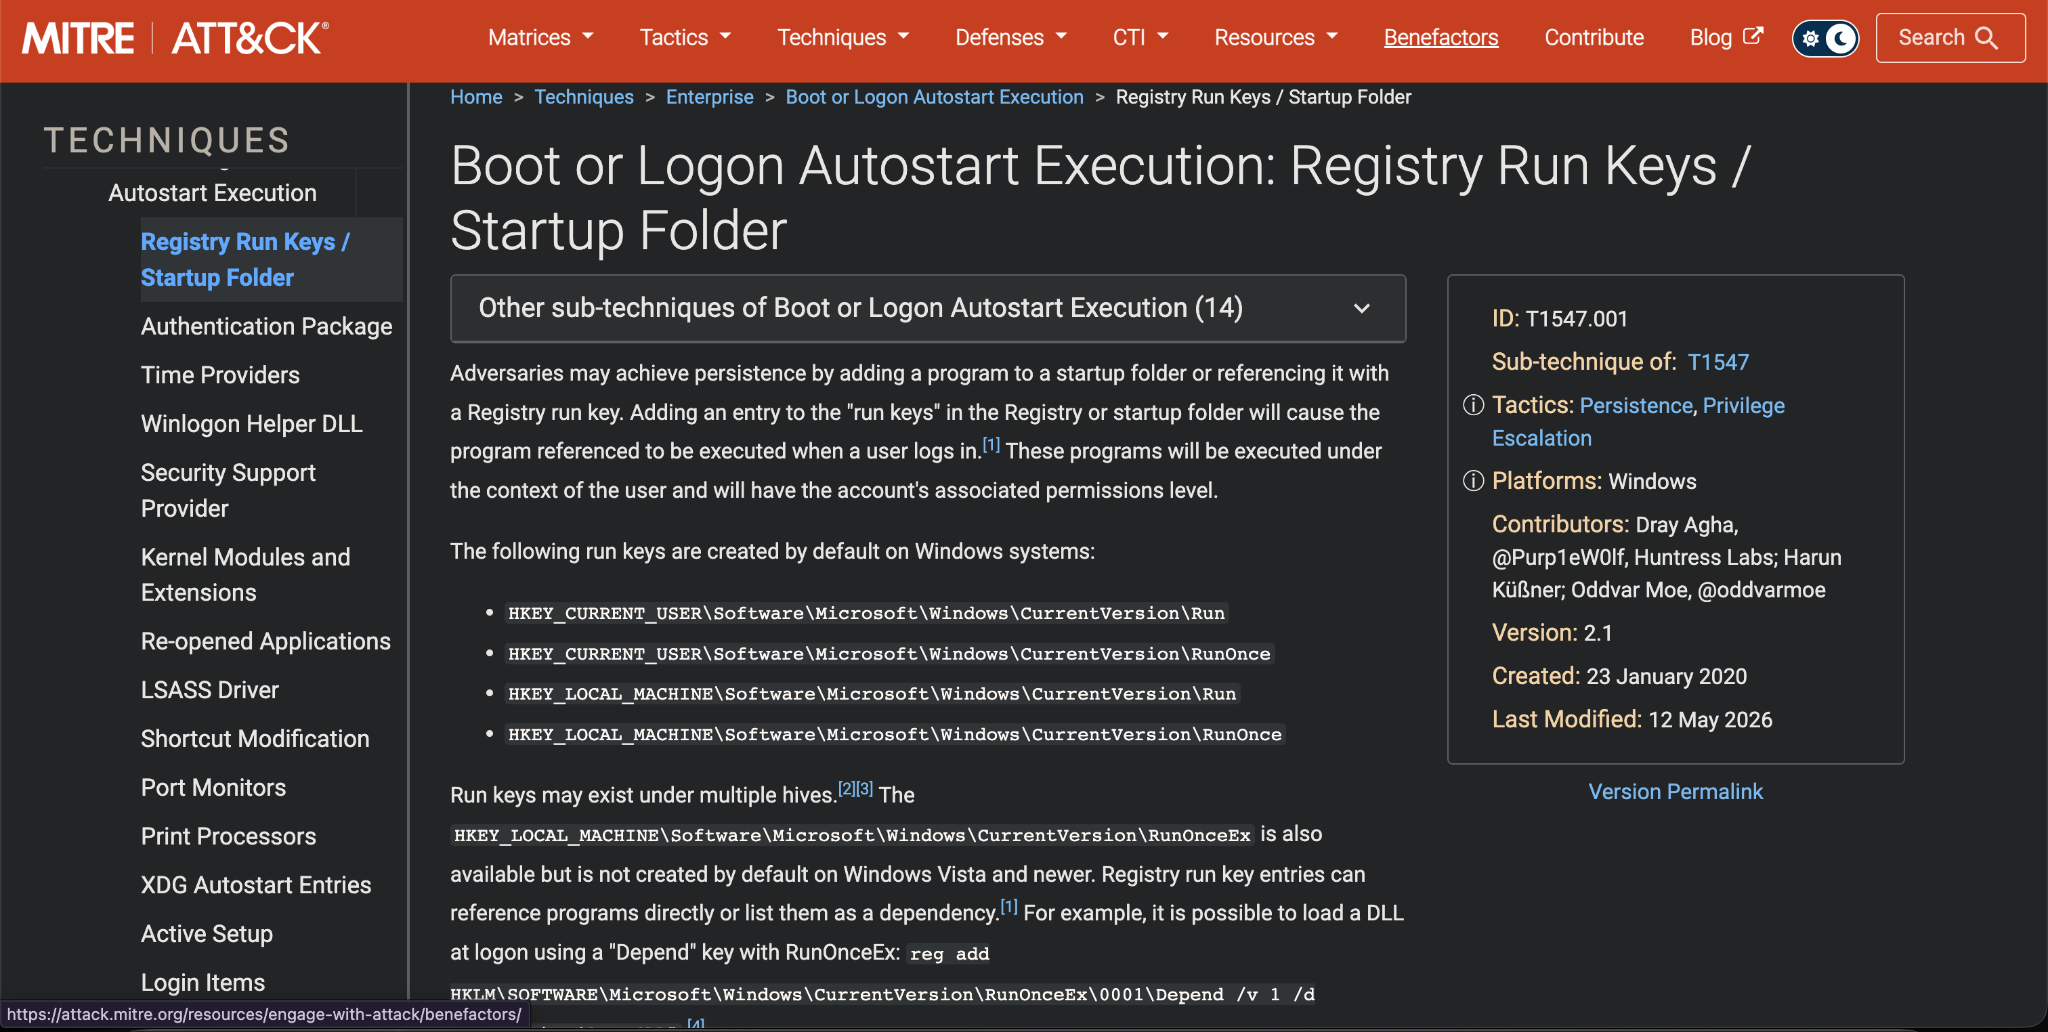
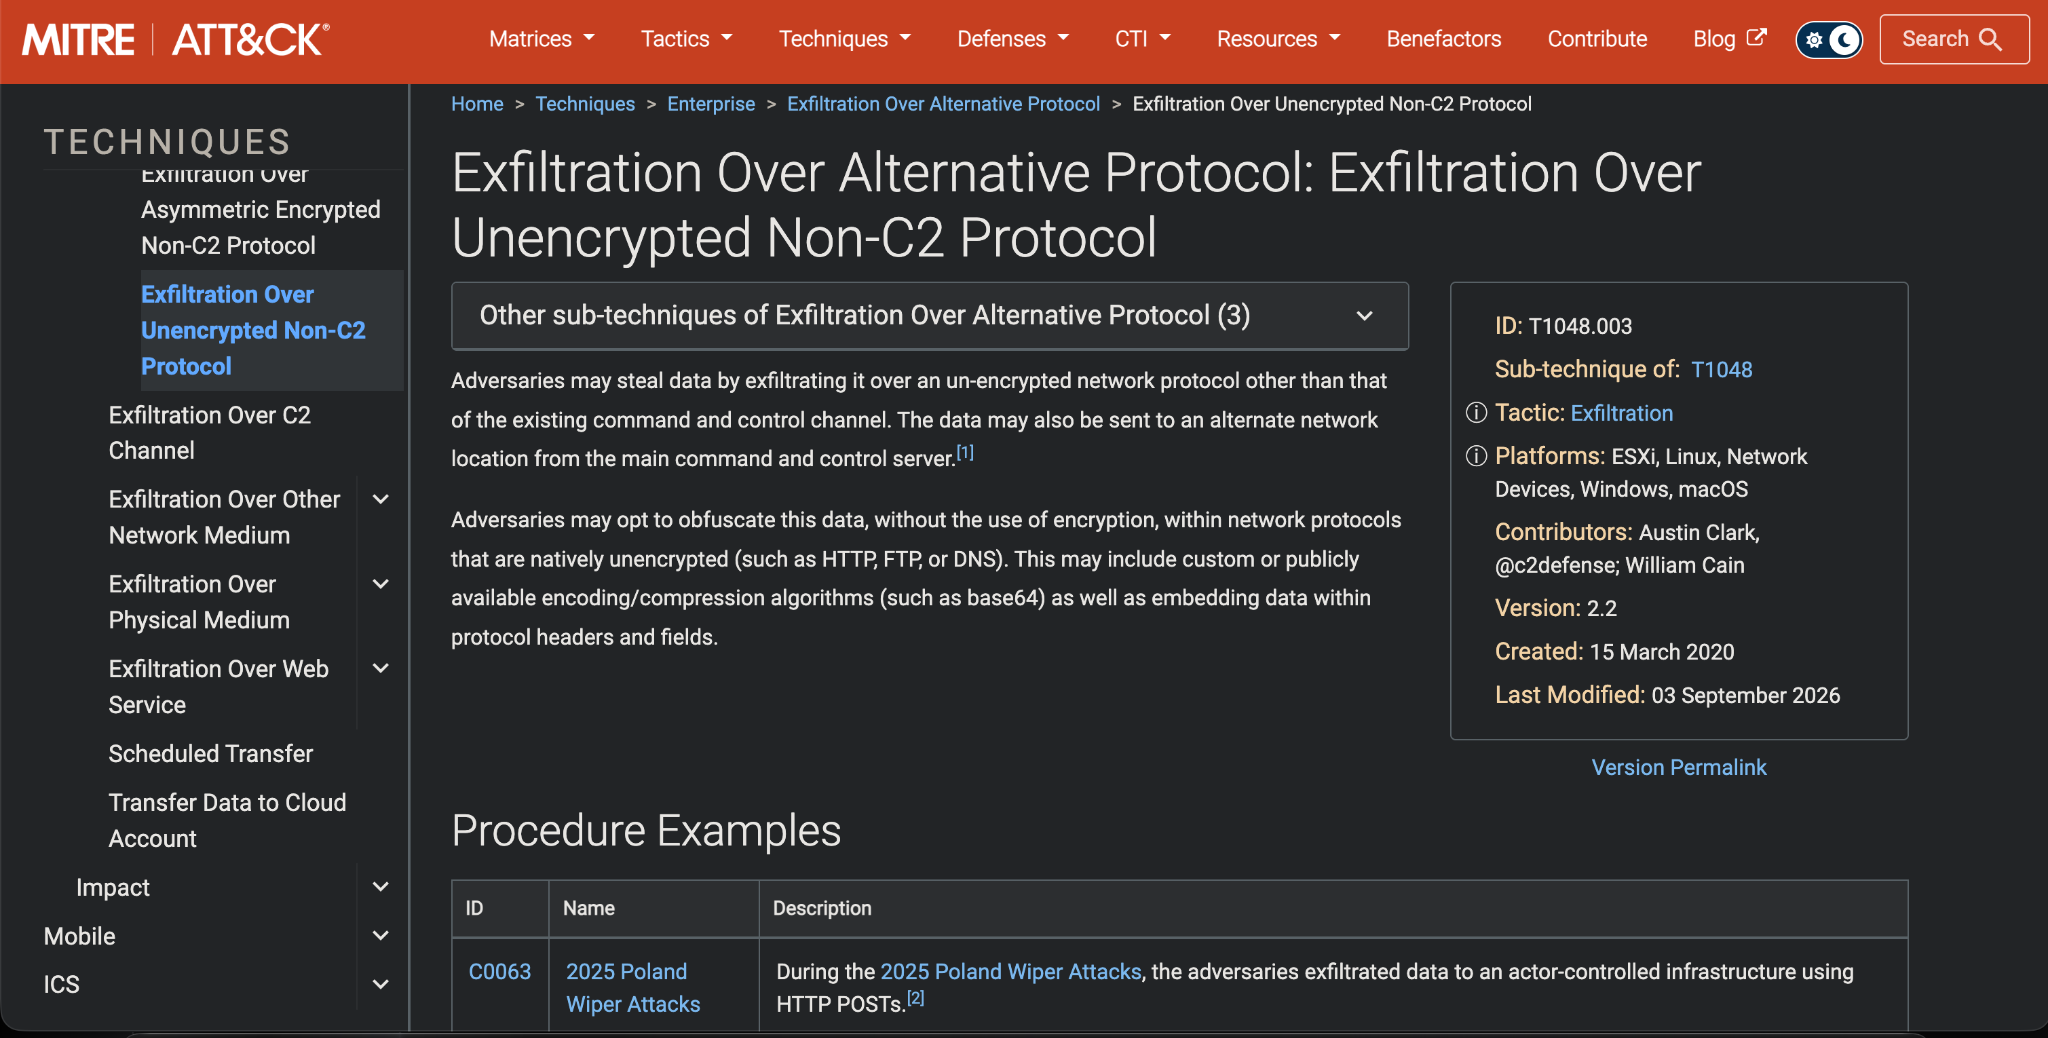
update assignment 5

diff --git a/README.md b/README.md
@@ -12,14 +12,7 @@ This plan tests whether a Windows lab and its SIEM can observe a short sequence 
 
 **Scenario:** An operator starts with the credentials of a precreated, low-privilege local test account on one Windows workstation. After signing in, the operator configures a harmless test program to start at the next logon. The operator then sends a small synthetic file over HTTP to an isolated lab receiver. No real user data, production host, public destination, or credential collection is in scope.
 
-**Preconditions:**
-- One approved Windows VM.
-- One isolated HTTP receiver.
-- A dedicated test account.
-- A uniquely named test file.
-- A documented exercise window.
-- Windows Security, Sysmon (if installed), and receiver or proxy logs collected into the SIEM.
-- Clock synchronization and log ingestion confirmed before beginning.
+**Preconditions:** One approved Windows VM, one isolated HTTP receiver, a dedicated test account, a uniquely named test file, and a documented exercise window. Collect Windows Security, Sysmon (if installed), and receiver or proxy logs into the SIEM. Confirm clock synchronization and log ingestion before beginning.
 
 ## 3. Selected ATT&CK Techniques
 
@@ -27,7 +20,7 @@ This plan tests whether a Windows lab and its SIEM can observe a short sequence 
 |---|---|---|---|
 | Initial access | **T1078.003 — Valid Accounts: Local Accounts** | Sign in to the lab workstation using the dedicated local test account. | Windows Security Event ID 4624; account, host, logon type, source, and timestamp. |
 | Persistence | **T1547.001 — Registry Run Keys / Startup Folder** | Create a current-user autostart entry for a benign marker program, then sign out and back in. | Registry change (Sysmon Event ID 13 if configured); process creation (Event ID 4688 or Sysmon Event ID 1). |
-| Exfiltration | **T1048.003 — Exfiltration Over Unencrypted Non-C2 Protocol** | Send only the synthetic file by HTTP to the separate lab receiver. | HTTP request, destination, byte count, receiver receipt, and file hash. |
+| Exfiltration | **T1048.003 — Exfiltration Over Unencrypted Non-C2 Protocol** | Send only the synthetic file by HTTP to the separate lab receiver. | HTTP request, destination, byte count, receiver receipt, file hash. |
 
 ### ATT&CK reference screenshots
 
@@ -44,23 +37,25 @@ This plan tests whether a Windows lab and its SIEM can observe a short sequence 
 
 ### 4.1 Preparation
 
-Record the VM name, test account, receiver address, start time, file name, file size, and SHA-256 hash in the exercise worksheet. Label the file as synthetic test data. Verify that the receiver accepts connections only from the lab network and that the intended telemetry arrives in the SIEM. Capture a pretest baseline for account logons, autostart entries, and HTTP traffic.
+The exercise will take place on one approved Windows VM using a precreated, low-privilege local test account and an isolated lab receiver. The exercise worksheet will document the VM name, test account, receiver address, start time, and synthetic file’s name, size, and SHA-256 hash. The receiver will accept connections only from the lab network. Preparation will include verification that the intended telemetry reaches the SIEM and collection of a baseline covering account logons, autostart entries, and HTTP traffic.
 
-### 4.2 Initial access
+### 4.2 Initial Access
 
-Use the supplied local test account to sign in to the approved VM once. Record the exact sign-in time and session details. This emulates abuse of already obtained credentials; it does not test how credentials were stolen. Check for a matching Security Event ID 4624 and confirm that it can be located by account and host in the SIEM.
+The operator will sign in to the approved VM using the supplied local test account. This stage will emulate the use of previously obtained credentials; credential theft or collection will remain outside the exercise scope. The exact sign-in time and session details will be documented. A corresponding Windows Security Event ID 4624 will provide evidence of the logon, with its availability in the SIEM assessed through the account and host fields.
 
 ### 4.3 Persistence
 
-Under the test account, add one clearly labeled entry to that user’s Run key or Startup folder that starts a harmless marker program. The marker should write only a timestamped “emulation test” message to a lab file. Sign out and back in once. Confirm the entry exists, the marker runs at logon, and the registry or file change and subsequent process creation are visible. Record the entry name and path so it can be removed.
+The operator will establish harmless persistence by adding one clearly labeled entry to the test account’s Run key or Startup folder. This entry will launch a marker program that writes only a timestamped “emulation test” message to a lab file. A single sign-out and subsequent sign-in will trigger the program. Evidence will cover the autostart entry, its associated registry or file modification, and the resulting process creation. The entry’s name and path will be documented to support its removal after the exercise.
 
-### 4.4 Data exfiltration simulation
+### 4.4 Data Exfiltration Simulation
 
-Create a small synthetic text file containing only the exercise identifier and dummy values. Transfer that file over plain HTTP from the VM to the isolated receiver, which is separate from any command-and-control channel. Compare the receiver’s file hash and byte count with the original; retain the request and receiver logs. This validates observable transfer behavior only, with no sensitive data leaving the lab.
+The operator will create a small synthetic text file containing only the exercise identifier and dummy values, then transfer it over plain HTTP to the isolated lab receiver. The transfer will use a channel separate from any command-and-control channel. Comparison of the original and received files’ SHA-256 hashes and byte counts will establish whether the transfer completed correctly. HTTP request records and receiver logs will provide supporting evidence. This phase will emulate observable data transfer behavior using synthetic content, with no real user data or public destination involved.
 
 ## 5. Evidence and Evaluation
 
-For each phase, store the execution timestamp and a screenshot or exported event showing the host, account, action, and relevant fields. Correlate the three stages by test account, host, and time window. In the SIEM, search for the 4624 logon, the autostart modification plus logon-triggered process, and the HTTP transfer to the lab receiver. Do not infer success from a broad event count alone.
+Each phase will produce an execution timestamp and a screenshot or exported event identifying the host, account, action, and relevant event fields. The initial access, persistence, and simulated exfiltration stages will be correlated through the shared test account, workstation, and exercise time window.
+
+Evaluation will assess both whether the planned actions occurred and whether their evidence was available in the SIEM. The expected evidence will include the Security Event ID 4624 logon, the autostart modification and subsequent logon-triggered process, and the HTTP transfer to the isolated receiver. Success will depend on evidence matching these specific actions rather than a broad increase in event counts. Missing or incomplete telemetry will be documented as a visibility gap, separately from any failure to execute an emulation action.
 
 | Phase | Pass condition | Record if absent |
 |---|---|---|
@@ -72,12 +67,7 @@ For each phase, store the execution timestamp and a screenshot or exported event
 
 A dedicated account sign-in is a simplified stand-in for misuse of compromised credentials, and an isolated HTTP transfer cannot fully reproduce real data theft. Sysmon events depend on its installed configuration; Security Event IDs 4688 and 4624 depend on audit settings and ingestion. A missing SIEM event may reflect collection or query gaps rather than absence of the activity. This three-stage plan omits discovery, collection, staging, and command and control.
 
-After evidence is saved:
-- Remove the autostart entry and marker file.
-- Delete the synthetic file from the VM and receiver.
-- Disable or reset the test account.
-- Verify that no test entry remains.
-- Record actual timestamps, event IDs, SIEM queries, observed counts, gaps, and cleanup confirmation in the final exercise report.
+After evidence is saved, remove the autostart entry and marker file, delete the synthetic file from the VM and receiver, disable or reset the test account, and verify that no test entry remains. Record actual timestamps, event IDs, SIEM queries, observed counts, gaps, and cleanup confirmation in the final exercise report.
 
 ## 7. Conclusion and Next Steps
 

diff --git a/images/README.md b/images/README.md
@@ -1,7 +1,8 @@
 # Images folder
 
-Original image files extracted directly from the uploaded DOCX media package. They were not resized or recompressed.
+Image assets extracted directly from the updated DOCX media package.
+No resizing or recompression was performed.
 
-- `figure_01.png` — 589,173 bytes (source media: `word/media/image2.png`)
-- `figure_02.png` — 579,415 bytes (source media: `word/media/image3.png`)
-- `figure_03.png` — 692,801 bytes (source media: `word/media/image1.png`)
[3 lines of base64/hex data omitted]
